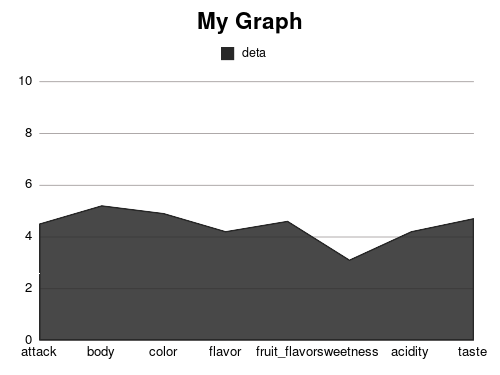
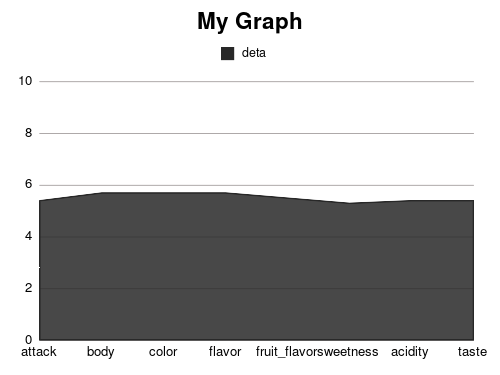
fix

Changed region(s): [[0.06, 0.4987, 0.96, 0.704]]

diff --git a/app/controllers/roots_controller.rb b/app/controllers/roots_controller.rb
@@ -1,6 +1,6 @@
 class RootsController < ApplicationController
   protect_from_forgery with: :null_session
-  before_action :authenticate_user!, only:[:index, :homepage, :butler, :create, :create_cart]
+  before_action :authenticate_user!, only:[:index, :homepage, :butler, :create_cart]
   before_action :create_cart, only:[:index]
 
   def about
@@ -37,7 +37,7 @@ class RootsController < ApplicationController
     @blancParame.sweetness = blanc_parame[:sweetness]
     @blancParame.acidity = blanc_parame[:acidity]
     @blancParame.taste = blanc_parame[:taste]
-    # @blancParame.score_image = File.open('./app/assets/images/user_blanc_graph.png')
+    @blancParame.score_image = File.open('./app/assets/images/user_blanc_graph.png')
     ## @blancParame.score_image = File.open('./public/assets/images/user_blanc_graph.png')
     @blancParame.save
 
@@ -52,7 +52,7 @@ class RootsController < ApplicationController
     @rougeParame.acidity = rouge_parame[:acidity]
     @rougeParame.tannin = rouge_parame[:tannin]
     @rougeParame.astringency = rouge_parame[:astringency]
-    # @rougeParame.score_image = File.open('./app/assets/images/user_rouge_graph.png')
+    @rougeParame.score_image = File.open('./app/assets/images/user_rouge_graph.png')
     ## @rougeParame.score_image = File.open('./public/assets/images/user_rouge_graph.png')
     @rougeParame.save
 
@@ -67,7 +67,7 @@ class RootsController < ApplicationController
     @sparklingParame.bitterness = sparkling_parame[:bitterness]
     @sparklingParame.acidity = sparkling_parame[:acidity]
     @sparklingParame.taste = sparkling_parame[:taste]
-    # @sparklingParame.score_image = File.open('./app/assets/images/user_sparkling_graph.png')
+    @sparklingParame.score_image = File.open('./app/assets/images/user_sparkling_graph.png')
     ## @sparklingParame.score_image = File.open('./public/assets/images/user_sparkling_graph.png')
     @sparklingParame.save
 

diff --git a/app/models/sparkling_parame.rb b/app/models/sparkling_parame.rb
@@ -249,26 +249,26 @@ class SparklingParame < ApplicationRecord
       end
     end
 
-    # g = Gruff::Area.new 500
-    # g.title = "My Graph"
-    # g.theme_greyscale
-    # g.maximum_value = 10
-    # g.minimum_value = 0
+    g = Gruff::Area.new 500
+    g.title = "My Graph"
+    g.theme_greyscale
+    g.maximum_value = 10
+    g.minimum_value = 0
     
-    # g.labels = {0 => 'attack',
-    #             1 => 'body',
-    #             2 => 'color',
-    #             3 => 'flavor',
-    #             4 => 'fruit_flavor',
-    #             5 => 'sweetness',
-    #             6 => 'bitterness',
-    #             7 => 'acidity',
-    #             8 => 'taste'
-    #           }
+    g.labels = {0 => 'attack',
+                1 => 'body',
+                2 => 'color',
+                3 => 'flavor',
+                4 => 'fruit_flavor',
+                5 => 'sweetness',
+                6 => 'bitterness',
+                7 => 'acidity',
+                8 => 'taste'
+              }
 
-    # g.data :deta, taste_params.values
-    # g.write("./app/assets/images/user_sparkling_graph.png")
-    # # g.write("./public/assets/images/user_sparkling_graph.png")
+    g.data :deta, taste_params.values
+    g.write("./app/assets/images/user_sparkling_graph.png")
+    # g.write("./public/assets/images/user_sparkling_graph.png")
 
     taste_params[:user_id] = deta[0].to_i
     return taste_params

diff --git a/app/models/rouge_parame.rb b/app/models/rouge_parame.rb
@@ -259,26 +259,26 @@ class RougeParame < ApplicationRecord
       end
     end
 
-    # g = Gruff::Area.new 500
-    # g.title = "My Graph"
-    # g.theme_greyscale
-    # g.maximum_value = 10
-    # g.minimum_value = 0
+    g = Gruff::Area.new 500
+    g.title = "My Graph"
+    g.theme_greyscale
+    g.maximum_value = 10
+    g.minimum_value = 0
     
-    # g.labels = {0 => 'attack',
-    #             1 => 'body',
-    #             2 => 'color',
-    #             3 => 'flavor',
-    #             4 => 'fruit_flavor',
-    #             5 => 'bitterness',
-    #             6 => 'acidity',
-    #             7 => 'tannin',
-    #             8 => 'astringency'
-    #           }
+    g.labels = {0 => 'attack',
+                1 => 'body',
+                2 => 'color',
+                3 => 'flavor',
+                4 => 'fruit_flavor',
+                5 => 'bitterness',
+                6 => 'acidity',
+                7 => 'tannin',
+                8 => 'astringency'
+              }
 
-    # g.data :deta, taste_params.values
-    # g.write("./app/assets/images/user_rouge_graph.png")
-    # # g.write("./public/assets/images/user_rouge_graph.png")
+    g.data :deta, taste_params.values
+    g.write("./app/assets/images/user_rouge_graph.png")
+    # g.write("./public/assets/images/user_rouge_graph.png")
 
     taste_params[:user_id] = deta[0].to_i
     return taste_params

diff --git a/app/models/blanc_parame.rb b/app/models/blanc_parame.rb
@@ -272,25 +272,25 @@ class BlancParame < ApplicationRecord
       end
     end
 
-    # g = Gruff::Area.new 500
-    # g.title = "My Graph"
-    # g.theme_greyscale
-    # g.maximum_value = 10
-    # g.minimum_value = 0
+    g = Gruff::Area.new 500
+    g.title = "My Graph"
+    g.theme_greyscale
+    g.maximum_value = 10
+    g.minimum_value = 0
     
-    # g.labels = {0 => 'attack',
-    #             1 => 'body',
-    #             2 => 'color',
-    #             3 => 'flavor',
-    #             4 => 'fruit_flavor',
-    #             5 => 'sweetness',
-    #             6 => 'acidity',
-    #             7 => 'taste'
-    #           }
+    g.labels = {0 => 'attack',
+                1 => 'body',
+                2 => 'color',
+                3 => 'flavor',
+                4 => 'fruit_flavor',
+                5 => 'sweetness',
+                6 => 'acidity',
+                7 => 'taste'
+              }
 
-    # g.data :deta, taste_params.values
-    # g.write("./app/assets/images/user_blanc_graph.png")
-    # # g.write("./public/assets/images/user_blanc_graph.png")
+    g.data :deta, taste_params.values
+    g.write("./app/assets/images/user_blanc_graph.png")
+    # g.write("./public/assets/images/user_blanc_graph.png")
     taste_params[:user_id] = deta[0].to_i
     return taste_params
   end
